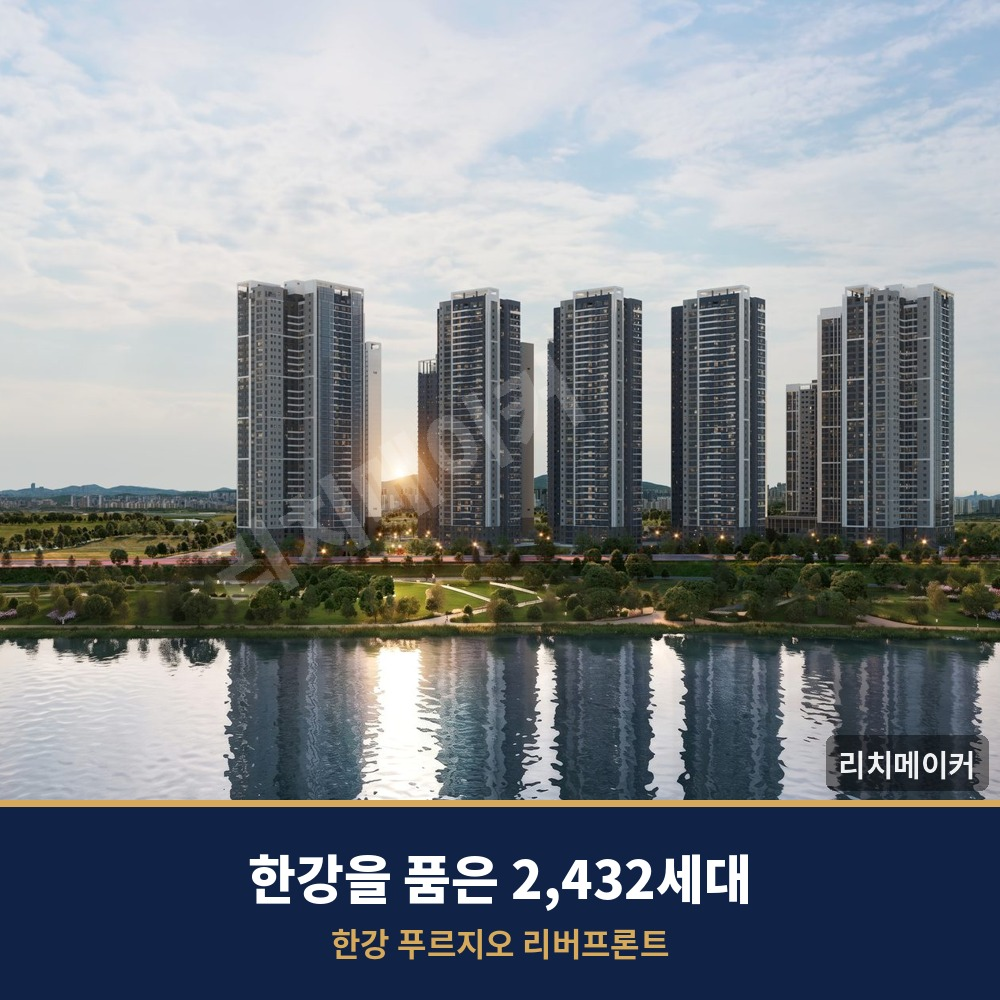
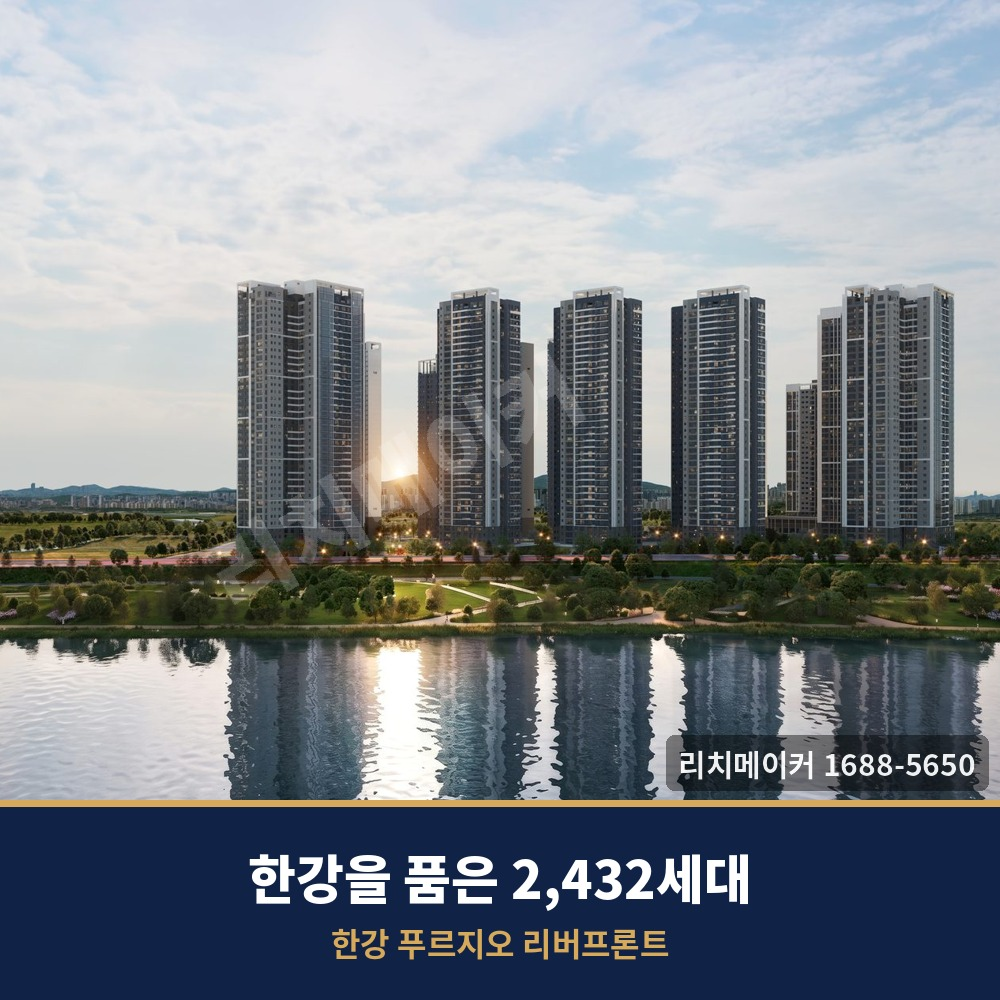
블로그: 워터마크 '리치메이커 1688-5650', 인사말 리치메이커로 통일
Claude-Session: https://claude.ai/code/session_0152TwLueBrm48z8KnaaRjRu

Changed region(s): [[0.651, 0.713, 0.992, 0.806]]

diff --git a/blog/make_photos.py b/blog/make_photos.py
@@ -10,6 +10,7 @@ F = lambda p, s: ImageFont.truetype(p, s, index=0)
 GOLD = (214, 170, 90); NAVY = (16, 34, 70)
 W, IH, BAND = 1000, 800, 200
 WM = '리치메이커'  # 블로그 사진 워터마크는 리치메이커
+WM2 = '리치메이커 1688-5650'  # 오른쪽 아래 표시
 
 def load(path, crop):
     im = Image.open(path).convert('RGB')
@@ -30,10 +31,10 @@ def watermark(im):
     lay = Image.new('RGBA', im.size, (0, 0, 0, 0)); d = ImageDraw.Draw(lay)
     t = Image.new('RGBA', (700, 120), (0, 0, 0, 0)); ImageDraw.Draw(t).text((10, 10), WM, font=F(B, 90), fill=(255, 255, 255, 46))
     t = t.rotate(30, expand=True); lay.alpha_composite(t, ((im.width-t.width)//2, (im.height-t.height)//2))
-    f = F(Bd, 30); bb = d.textbbox((0, 0), WM, font=f)
+    f = F(Bd, 30); bb = d.textbbox((0, 0), WM2, font=f)
     x, y = im.width-bb[2]-24, im.height-bb[3]-20
     d.rounded_rectangle([x-12, y-6, x+bb[2]+12, y+bb[3]+10], 8, fill=(0, 0, 0, 110))
-    d.text((x, y), WM, font=f, fill=(255, 255, 255, 235))
+    d.text((x, y), WM2, font=f, fill=(255, 255, 255, 235))
     return Image.alpha_composite(im.convert('RGBA'), lay).convert('RGB')
 
 for n, s in enumerate(spec, 1):

diff --git a/blog/MANUAL.md b/blog/MANUAL.md
@@ -5,7 +5,7 @@ GPT와 Claude가 블로그 글·썸네일·배너를 항상 같은 방식으로 
 마지막 갱신: 2026-10-31 (Claude)
 
 ## 0. 기본 정보 (바꾸지 말 것)
-- 글쓴이 소개: "안녕하세요, 분양알리미 리치메이커입니다."
+- 글쓴이 소개: "안녕하세요, 리치메이커입니다." (블로그는 리치메이커 이름으로 운영. "분양알리미"는 쓰지 않음)
 - 대표번호: **1688-5650** (모든 썸네일·배너·글 끝에 이 번호만 사용. 개인 번호는 쓰지 않음)
 - 포털 주소: https://bunyang-alimi.com
 - 현장 상세페이지 주소는 해당 페이지의 **canonical 주소**를 쓴다.
@@ -64,7 +64,7 @@ GPT와 Claude가 블로그 글·썸네일·배너를 항상 같은 방식으로 
 ## 4. 이미지 사용 규칙 (유사이미지 방지)
 네이버는 이미 올라온 이미지와 같거나 비슷한 이미지를 알아본다. 교육자료·조감도·평면도를 쓸 때:
 1. **자르고 크기·비율을 바꾼다** (가로형 → 정사각형 등)
-2. **워터마크**(리치메이커 — 블로그는 리치메이커 이름으로 운영)를 넣는다. `blog/make_photos.py` 사용. 크기에 맞춰 우측 하단 + 중앙 연한 대각선.
+2. **워터마크**: 오른쪽 아래 "리치메이커 1688-5650" + 가운데 연한 대각선 "리치메이커". `blog/make_photos.py` 사용. 크기에 맞춰 우측 하단 + 중앙 연한 대각선.
 3. 설명 글자("브라이튼 여의도 47평" 등)를 이미지에 넣거나 색 배경·테두리를 둘러준다.
 4. 2~3장을 합쳐 새 이미지로 만든다.
 5. 밝기·색감은 보조로만 조정한다.

diff --git a/blog/examples/lewest/글_마곡롯데캐슬르웨스트.md b/blog/examples/lewest/글_마곡롯데캐슬르웨스트.md
@@ -2,7 +2,7 @@
 
 [썸네일 이미지]
 
-안녕하세요, 분양알리미 리치메이커입니다.
+안녕하세요, 리치메이커입니다.
 오늘은 마곡 롯데캐슬 르웨스트 소식을 전해 드리려고 합니다. 총 876실, 처음 분양을 시작할 때만 해도 "저 많은 호실이 언제 다 팔리나" 하는 이야기가 많았던 단지입니다. 그런데 지금은 사실상 완판 단계에 들어섰습니다. 10개 타입 가운데 다른 타입은 모두 팔렸고, 가장 많은 358실이 공급된 69타입만 몇 호실 남아 있습니다. 그마저도 10월 말 기준 6실이 채 되지 않습니다. 왜 이렇게 빠르게 팔렸는지, 그리고 자금이 넉넉하지 않아도 왜 "전세 사는 느낌으로" 들어갈 수 있다고 말씀드리는지 차근차근 정리해 보겠습니다.
 
 1. 서울 전세, 구하기가 점점 어려워지고 있습니다

diff --git a/blog/examples/brighten/글_브라이튼여의도.md b/blog/examples/brighten/글_브라이튼여의도.md
@@ -1,6 +1,6 @@
 제목: 반포 다음은 여의도, 브라이튼 여의도
 
-안녕하세요, 분양알리미 리치메이커입니다.
+안녕하세요, 리치메이커입니다.
 요즘 서울 부동산 이야기를 하다 보면 빠지지 않는 곳이 있습니다. 바로 반포입니다. 재건축이 하나둘 마무리되면서 신축 단지 가격이 크게 올랐고, 그 영향이 주변 기존 아파트까지 번지고 있습니다. 오늘은 반포에서 벌어진 일을 먼저 짚어보고, 같은 흐름이 이어질 곳으로 거론되는 여의도, 그리고 그 한가운데 있는 브라이튼 여의도를 이야기해 보겠습니다.
 
 1. 반포에서 벌어진 일: 신축이 오르니 구축도 따라 올랐습니다

diff --git a/blog/examples/riverfront/글_한강푸르지오리버프론트.md b/blog/examples/riverfront/글_한강푸르지오리버프론트.md
@@ -2,7 +2,7 @@
 
 [썸네일 이미지]
 
-안녕하세요, 분양알리미 리치메이커입니다.
+안녕하세요, 리치메이커입니다.
 오늘은 김포 고촌의 한강 푸르지오 리버프론트를 소개해 드리려고 합니다. 한강과 바로 맞닿은 2,432세대 대단지, 분양가 상한제 적용, 그리고 서울 5호선 연장까지. 요즘 김포에서 가장 많이 이야기되는 단지인데요, 왜 이 단지를 "김포 한강시대의 시작"이라고 부르는지 하나씩 짚어 보겠습니다.
 
 1. 새 아파트 분양가, 1년 사이 크게 올랐습니다
